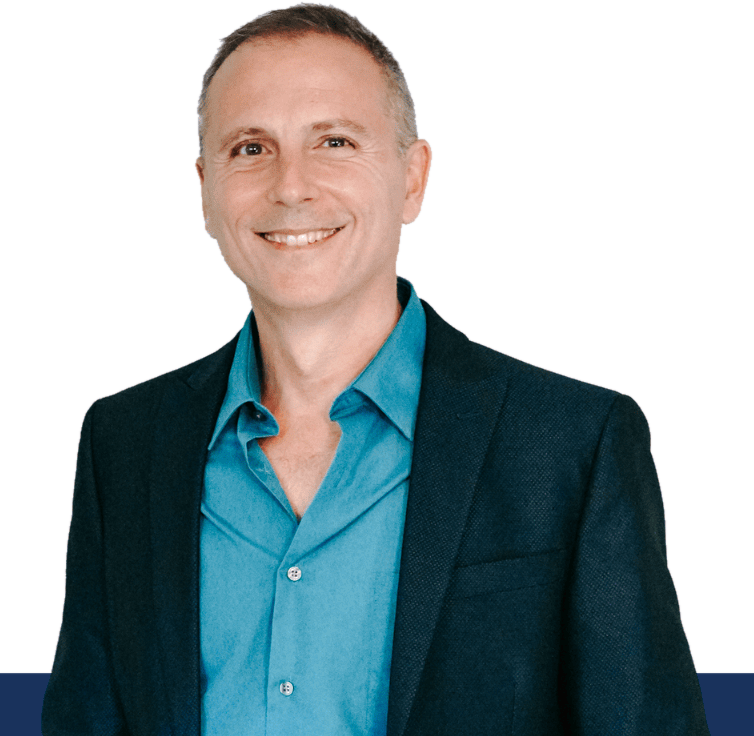
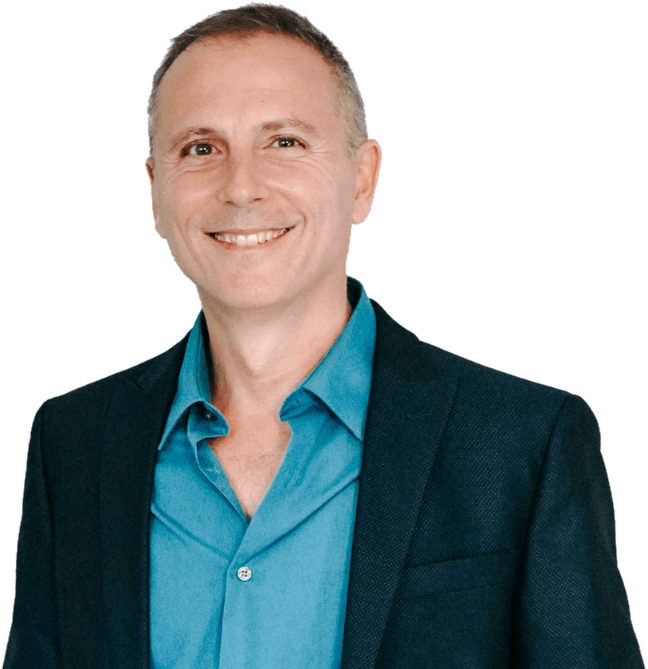
Show Sharla and Jesse whole, never clipped
Their photos were being cut twice over and it was careless.

- Re-cut as complete portraits. The crop now stops above the navy band,
  so no band pixel or band shadow enters the file. The previous crop ran
  down through the band and left navy artifacts welded to Jesse's
  shoulder where his arm walled them in from the flood fill.
- Both are now inset from the frame edges rather than bled off them, and
  verified fully within the viewport at 1440px and 375px. The previous
  mobile rule used a negative offset that sliced Sharla's arm off at the
  screen edge.

The navy band covers the lower edge of both portraits, which is the
banner's own device rather than a crop.

Changed region(s): [[0.0, 0.0, 1.0, 1.0], [0.1235, 0.9865, 0.1852, 1.0], [0.679, 0.5979, 0.7099, 0.6278]]

diff --git a/index.html b/index.html
@@ -99,17 +99,18 @@ body.is-login .acct{display:none}
 .hero .cast{position:absolute;bottom:0;z-index:3;display:none;pointer-events:none}
 .hero .cast img{width:100%;height:auto;display:block;filter:drop-shadow(0 18px 38px rgba(26,50,92,.20))}
 @media (min-width:1000px){
-  .hero{min-height:620px}
+  .hero{min-height:600px}
   .hero .cast{display:block}
-  .hero .cast.l{left:0;width:min(27%,360px)}
-  .hero .cast.r{right:0;width:min(29%,390px)}
-  .hero .in{max-width:560px;padding:82px 24px 130px}
+  /* inset from the frame: nothing of either of them is clipped by the edge */
+  .hero .cast.l{left:2.5%;width:min(25%,320px)}
+  .hero .cast.r{right:2.5%;width:min(25%,326px)}
+  .hero .in{max-width:540px;padding:78px 24px 138px}
 }
 @media (min-width:1360px){
-  .hero{min-height:680px}
-  .hero .cast.l{width:min(26%,410px)}
-  .hero .cast.r{width:min(28%,442px)}
-  .hero .in{max-width:620px}
+  .hero{min-height:650px}
+  .hero .cast.l{left:4%;width:min(24%,360px)}
+  .hero .cast.r{right:4%;width:min(24%,366px)}
+  .hero .in{max-width:600px}
 }
 
 /* the navy band, crossing their lower third exactly as on the banner */
@@ -142,8 +143,8 @@ body.is-login .acct{display:none}
   .hero h1{font-size:clamp(30px,7.4vw,42px)}
   .hero .hint{margin-top:22px}
   .hero .cast{display:block;bottom:0}
-  .hero .cast.l{left:-10px;width:40%;max-width:186px}
-  .hero .cast.r{right:-10px;width:42%;max-width:196px}
+  .hero .cast.l{left:3%;width:37%;max-width:168px}
+  .hero .cast.r{right:3%;width:37%;max-width:170px}
   .hero .band-strip{bottom:0;padding:13px 18px;gap:9px}
   .hero .band-strip span{font-size:11px;letter-spacing:3px}
   .hero .band-strip .sep{display:none}
@@ -151,8 +152,8 @@ body.is-login .acct{display:none}
 @media (max-width:560px){
   .hero .in{padding:126px 20px 232px}
   .hero .eyebrow{letter-spacing:3px}
-  .hero .cast.l{width:43%;max-width:none}
-  .hero .cast.r{width:45%;max-width:none}
+  .hero .cast.l{left:2%;width:40%;max-width:none}
+  .hero .cast.r{right:2%;width:40%;max-width:none}
 }
 
 .strip{background:var(--ink);position:relative;z-index:4}
